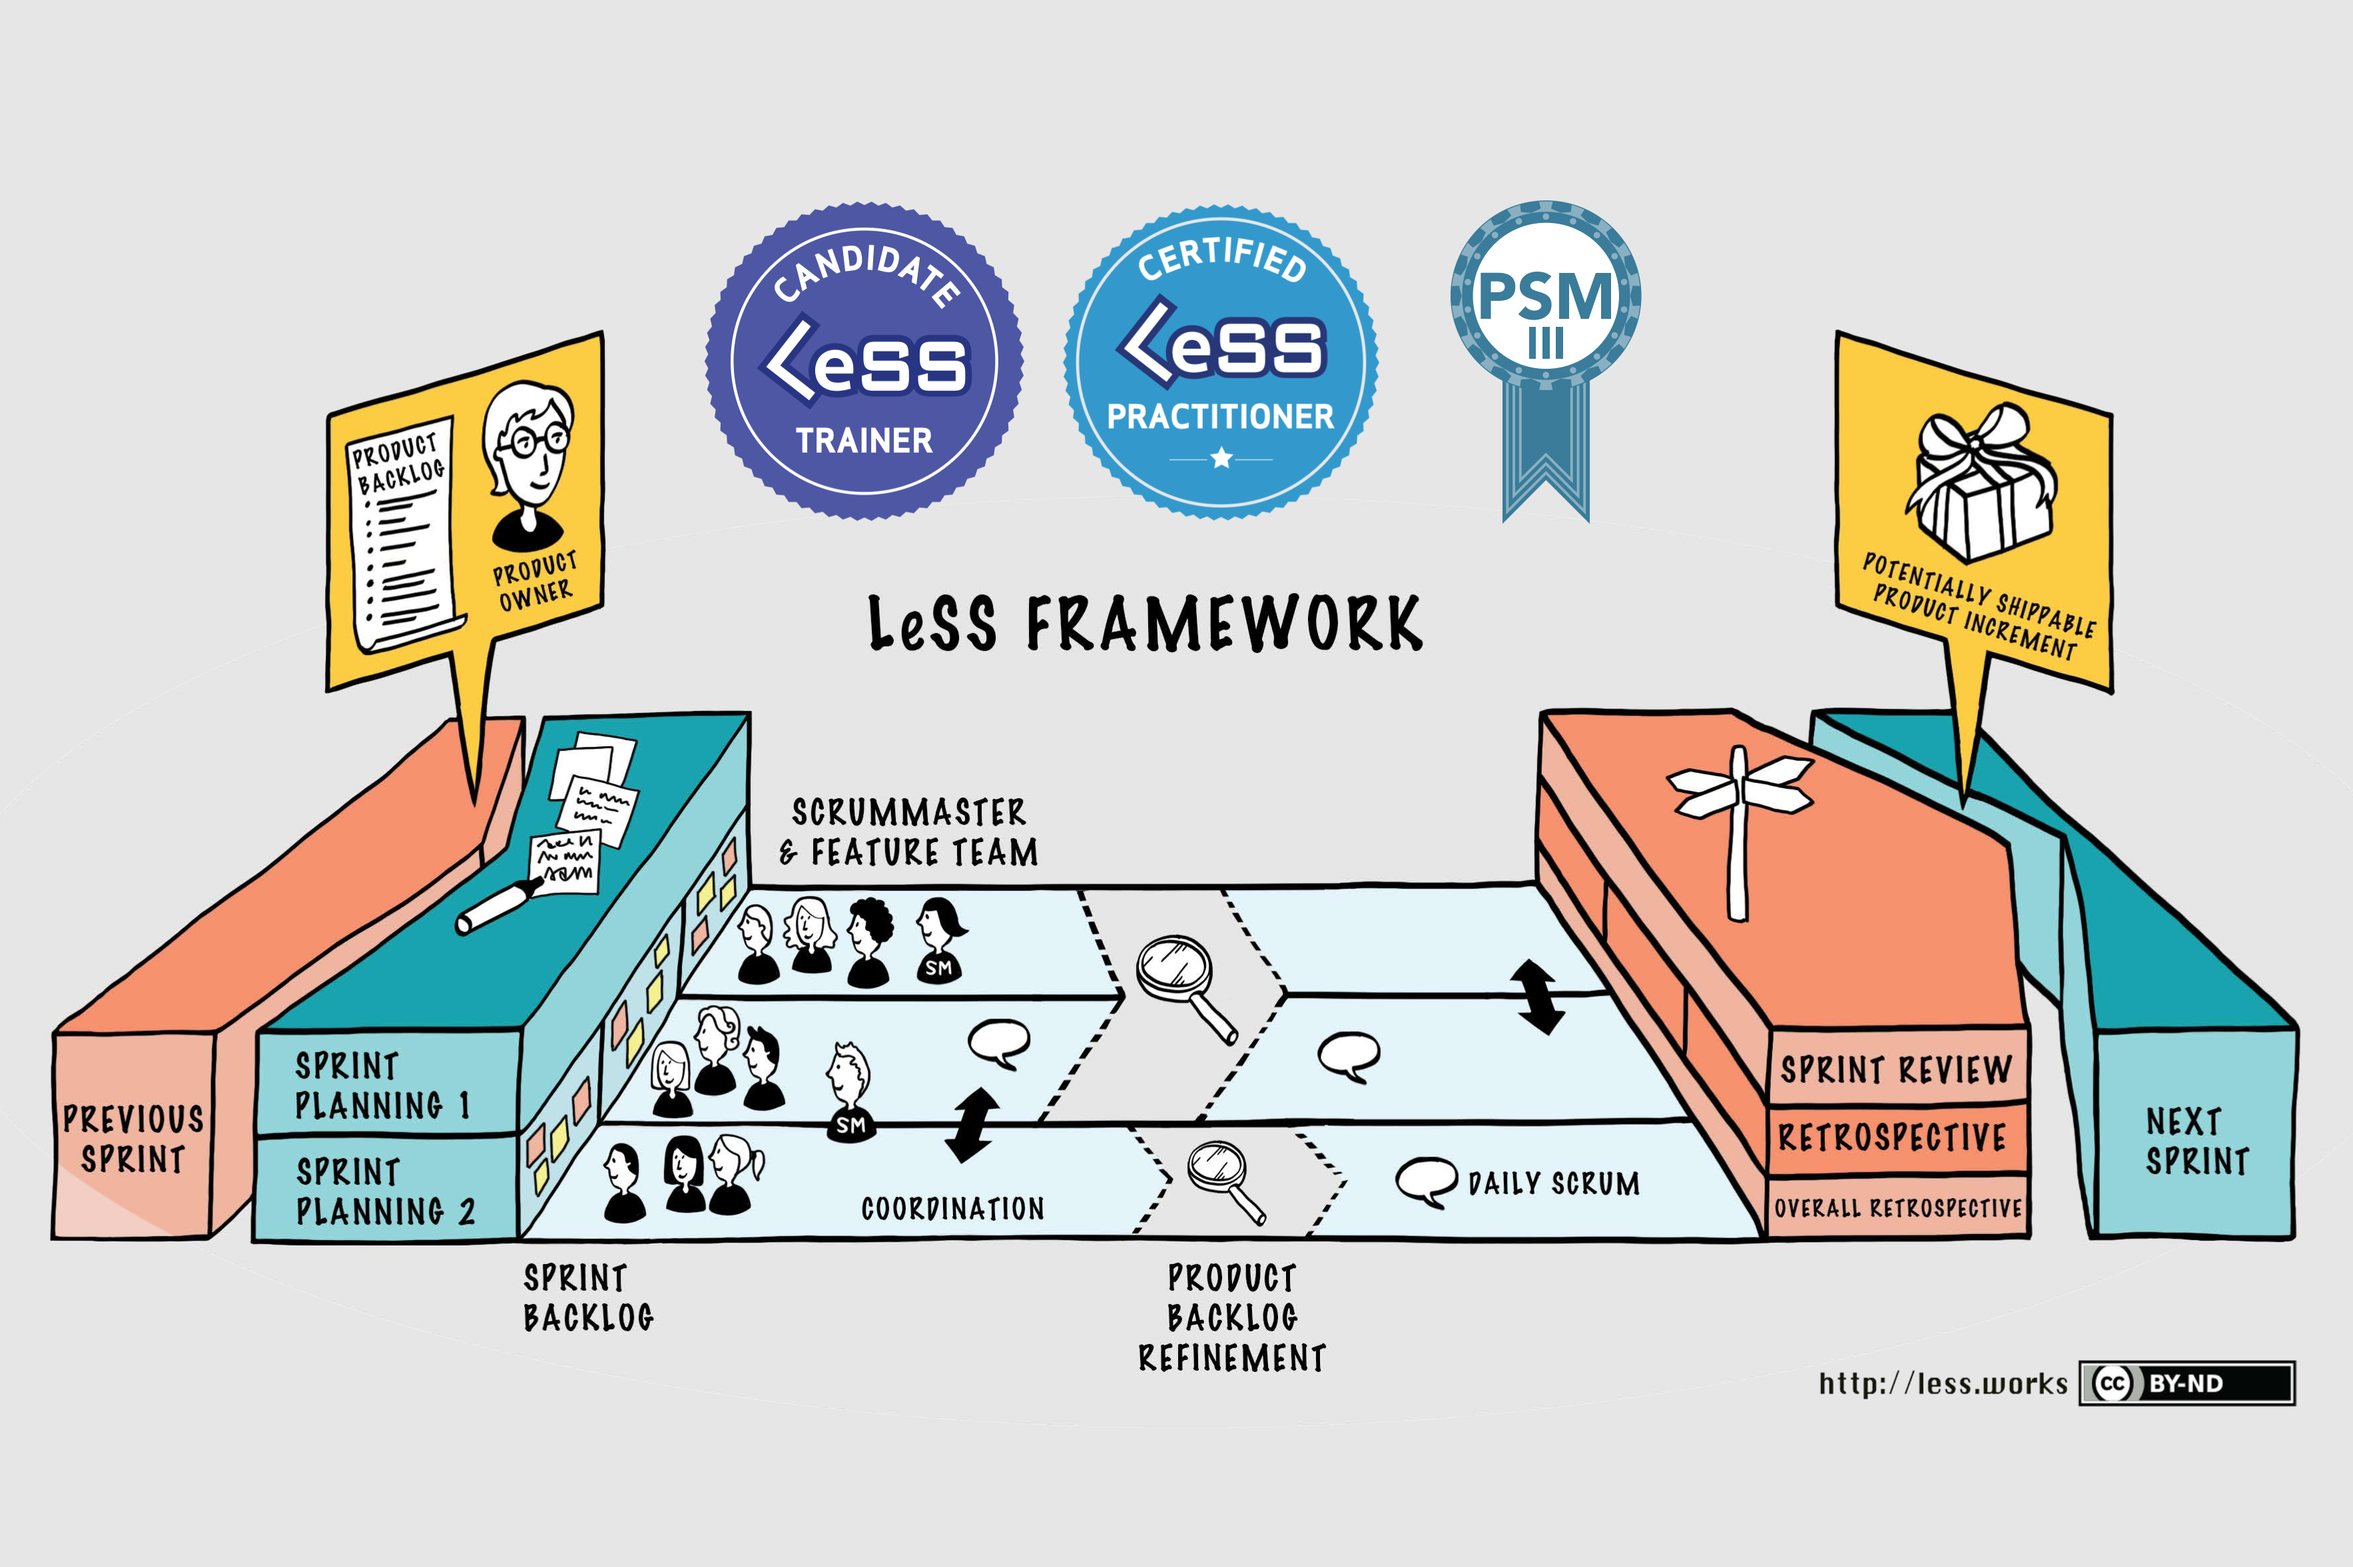
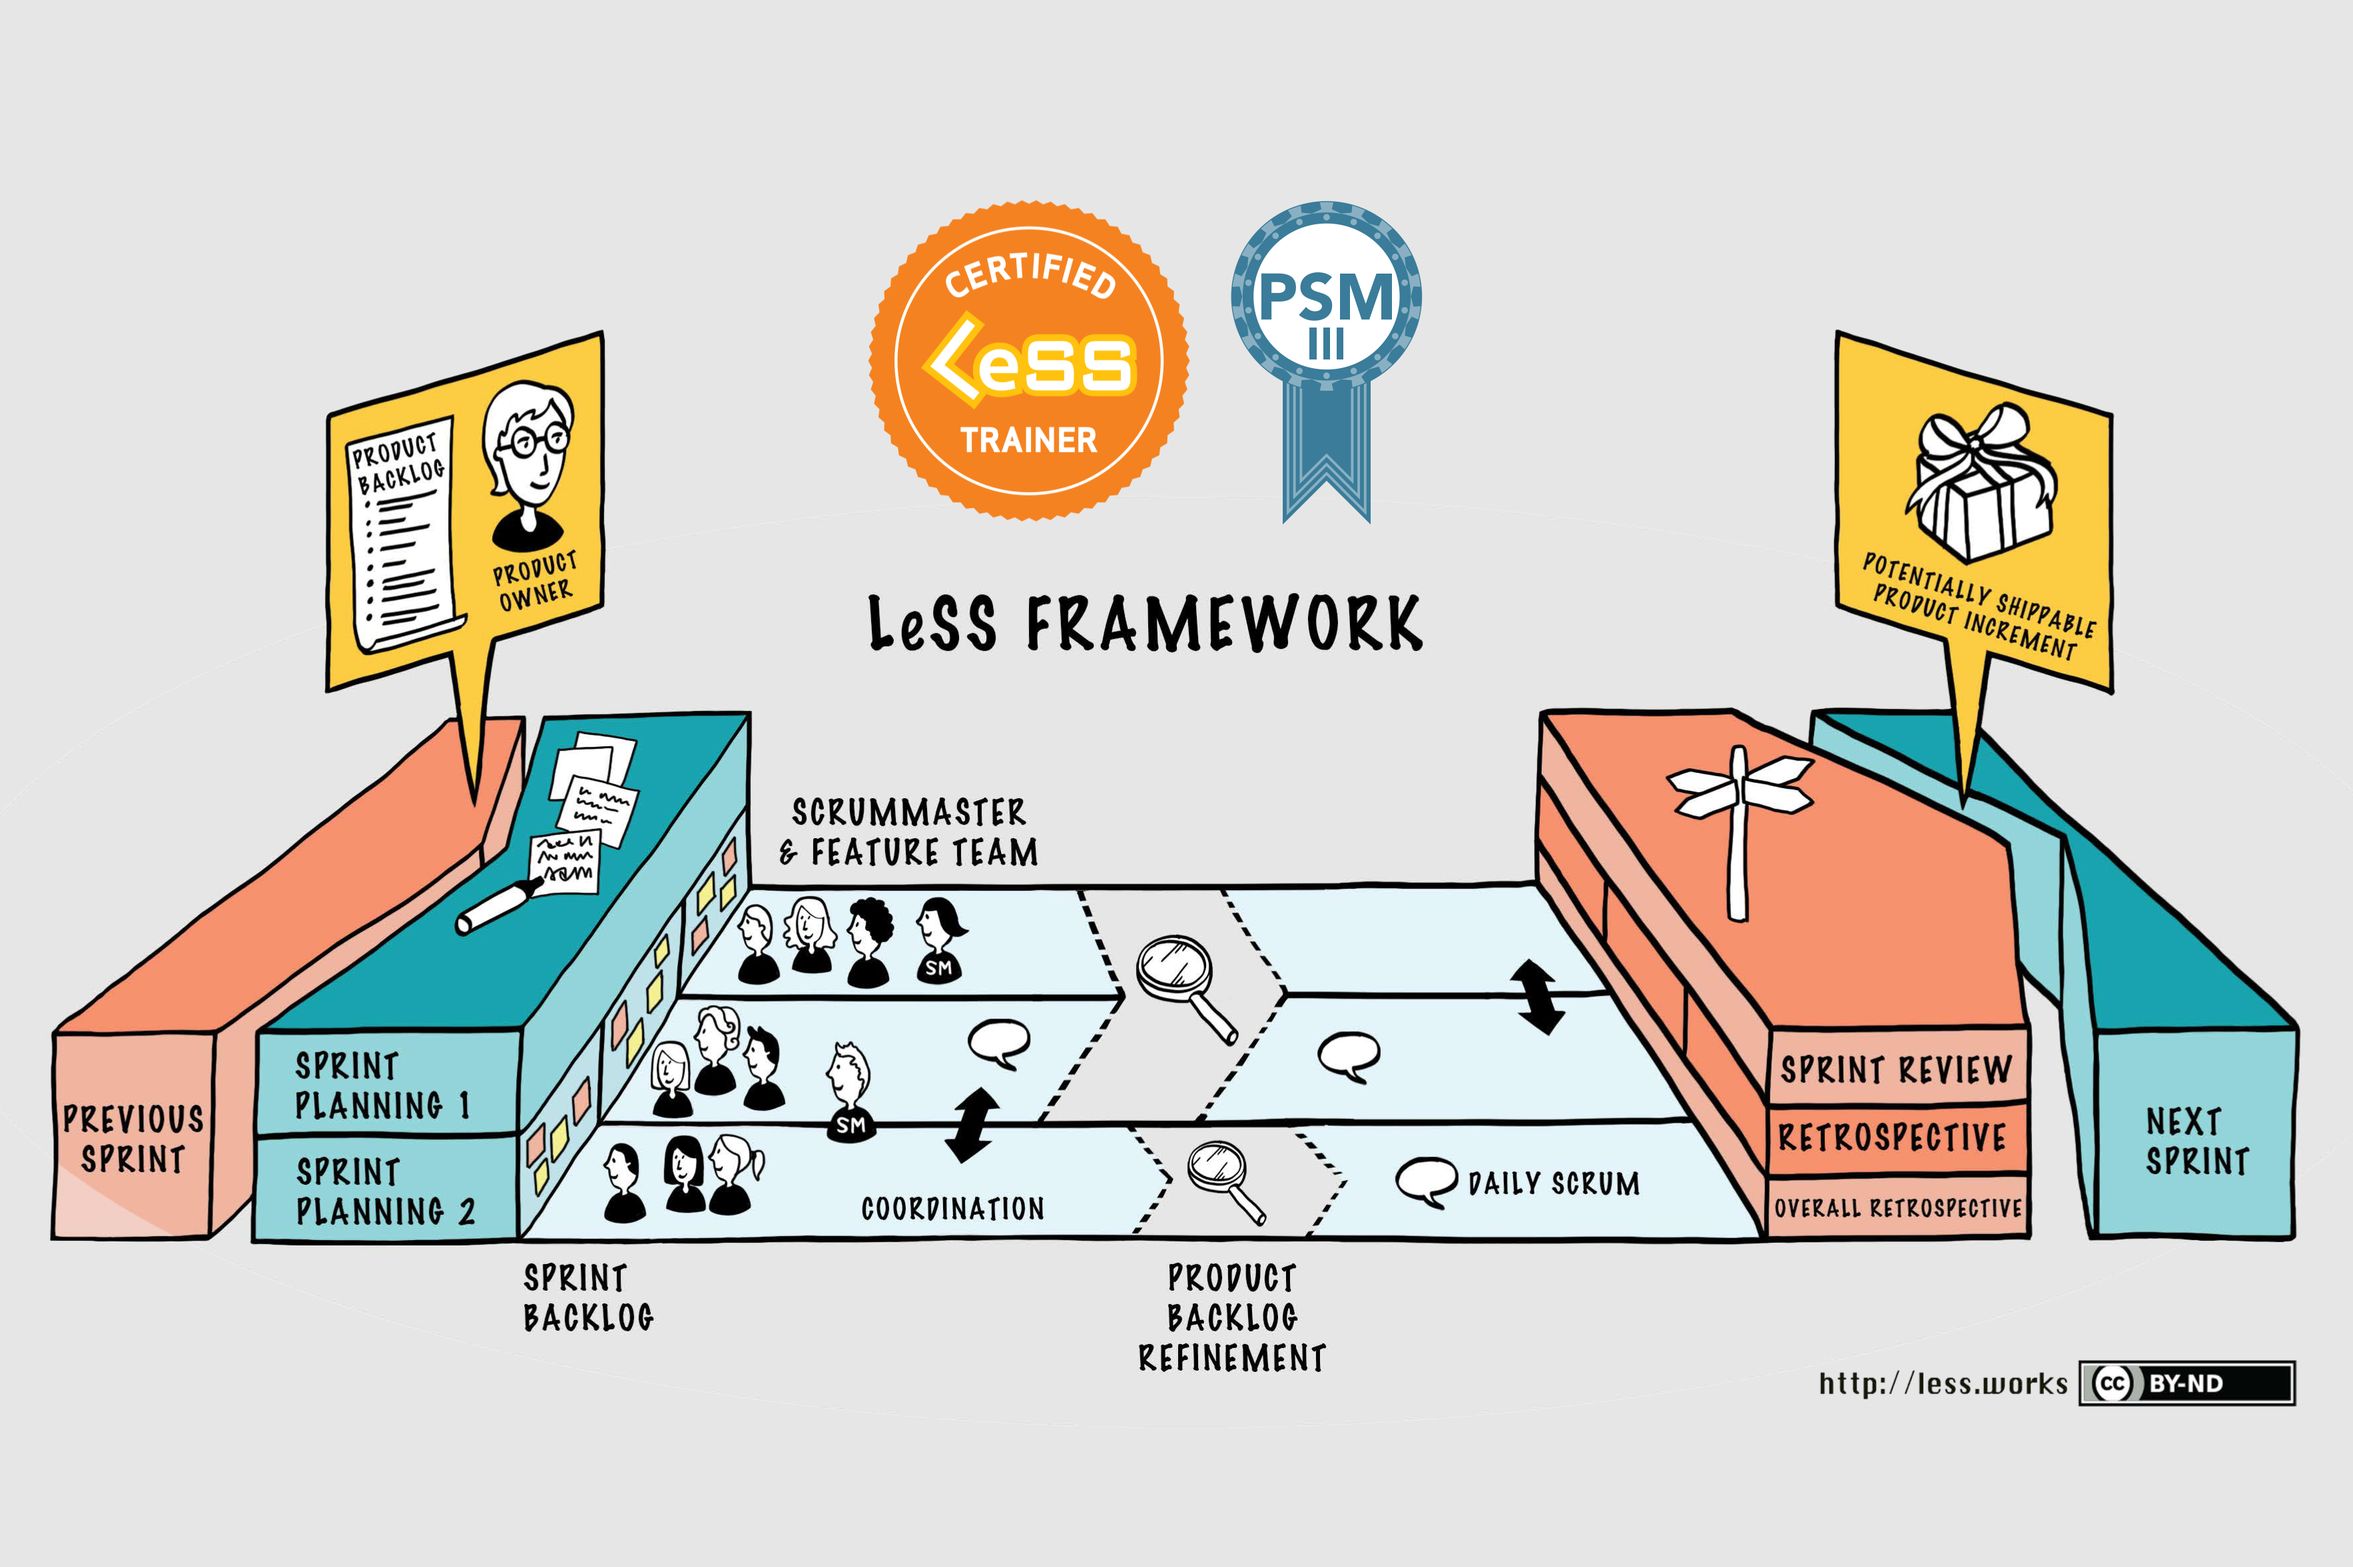
updated website content to be CLT rather than CLT candidate

Changed region(s): [[0.2802, 0.124, 0.7161, 0.3411]]

diff --git a/_pages/about.html b/_pages/about.html
@@ -12,7 +12,11 @@ description: "A few details on the focus of Agile Carpentry"
       <p>I (James) am focused on improving product development organizations through deep meaningful organizational and cultural change. Over the years change fads come and go, yet the truth of what actually works has stayed relatively constant.</p>
       <p>As an example, small focused highly collaborative groups of engineers who closely engage with the users tend to produce the best products. Similarly, test-first style development practices made just as much sense in the 1970s as they make today.</p>
 
-      <p>The LeSS Framework, principles, and guides happen to resonate very strongly with my own experiences regarding what actually works in practice. For this reason I am actively working through the LeSS trainer licensing process. A draft LeSS case study of a LeSS-like adoption I helped lead in a multi-national networking product company is available upon request for more serious inquiries.</p>
+      <p>The LeSS Framework, principles, and guides resonate very strongly with my own experiences regarding what actually works in practice. I am fortunate to have become one of less than a half-dozen LeSS trainers in North America, and one of a <a href="https://less.works/users/trainers">couple dozen LeSS trainers globally</a>.</p>
+
+      <p>I am grateful for the guidance and mentorship provided by Viktor Grgic, Craig Larman, and Bas Vodde throughout the <a href="https://less.works/courses/become-less-trainer">trainer candidate process</a>. Their editorial contributions towards <a href="https://less.works/case-studies/large-server-hardware-company.html">my LeSS case study</a> ensured a far better product, while simulatenously acting as a spring board for many a meaningful insightful conversations.</p>
+
+      <p>More information regarding my LeSS trainer credentials as well as a listing of my upcoming public LeSS courses can be found on <a href="https://less.works/profiles/james-carpenter">my LeSS profile</a>.</p>
     </div>
     <div class="col-md-6 goals">
       <h6 class="double-u">Robust Back-office</h6>
